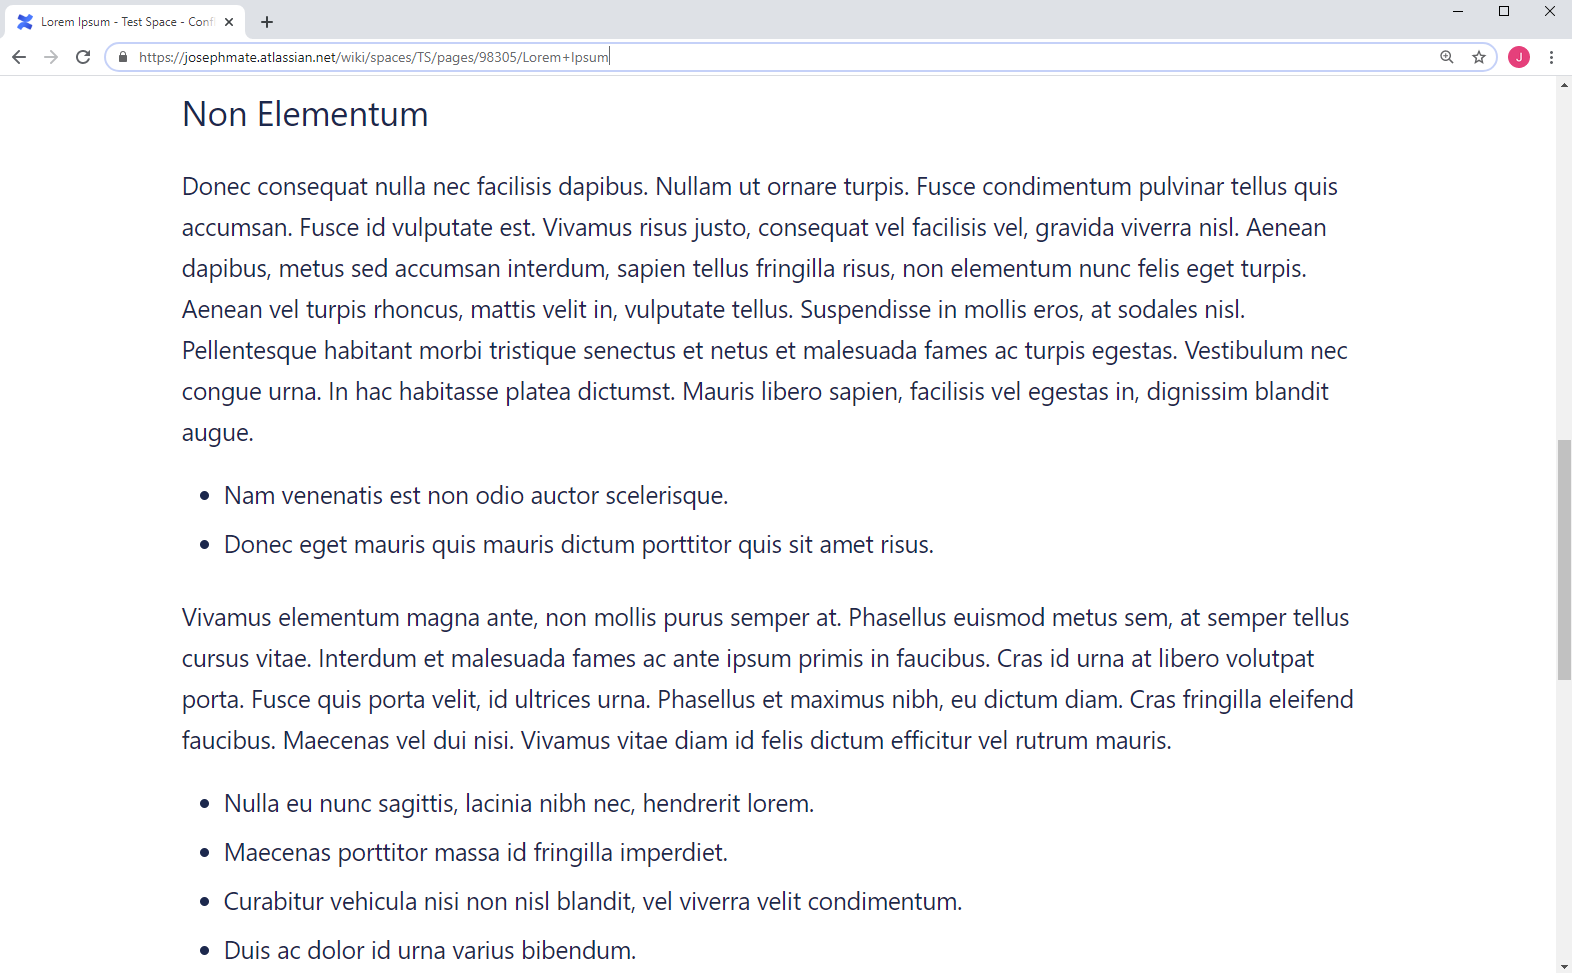
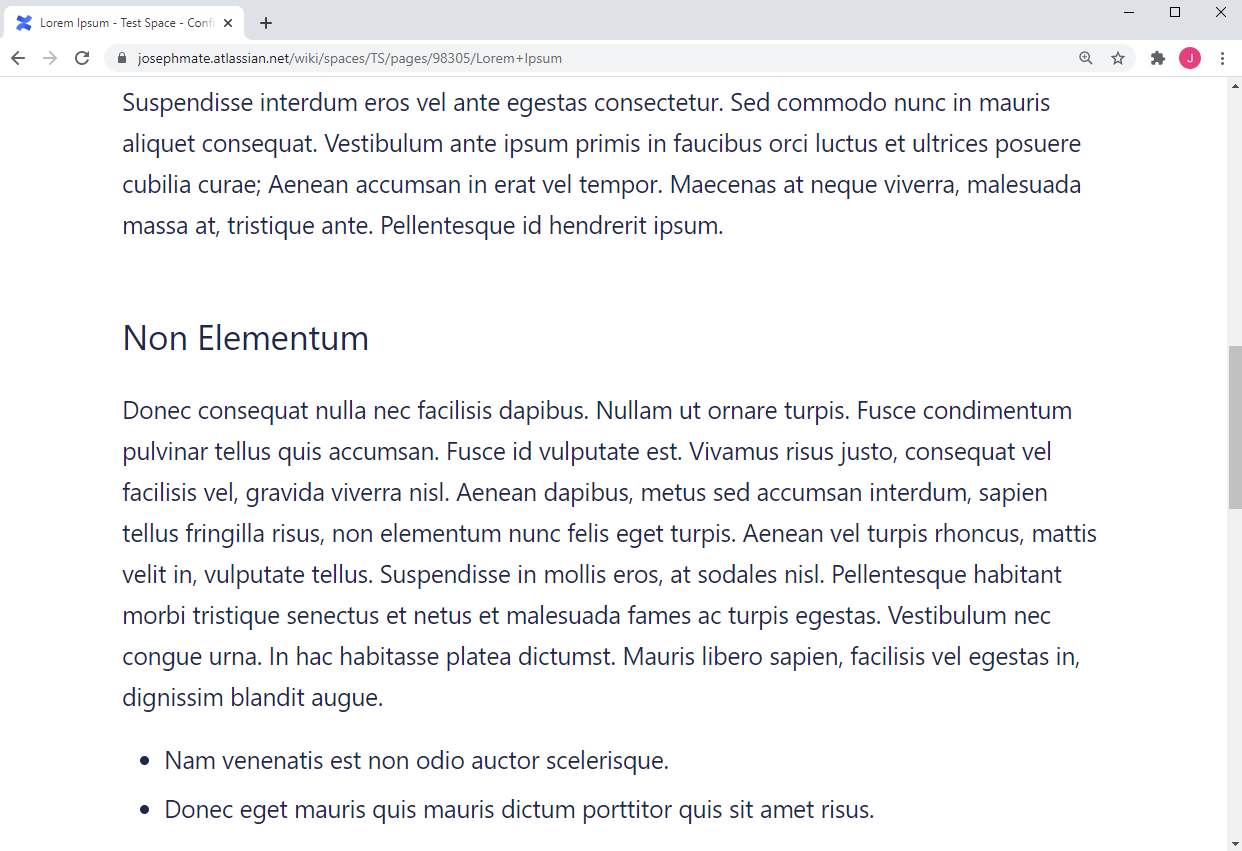
updated screenshots

Changed region(s): [[0.0, 0.0, 1.0, 1.0], [0.9791, 0.3972, 1.0, 0.7027]]

diff --git a/README.md b/README.md
@@ -3,6 +3,8 @@ Hides a webpage's side bars, top bars, and whatever else bars so you have more s
 
 # Example
 ![Confluence Before Hiding](/screenshots/Confluence_1000.0.0-d45d49b52de3_before.png "Confluence Before Hiding")
+![First Step](/screenshots/Confluence_1000.0.0-d45d49b52de3_step1.png "First Step")
+![Second Step](/screenshots/Confluence_1000.0.0-d45d49b52de3_step2.png "Second Step")
 ![Confluence After Hiding](/screenshots/Confluence_1000.0.0-d45d49b52de3_after.png "Confluence After Hiding")
 
 
